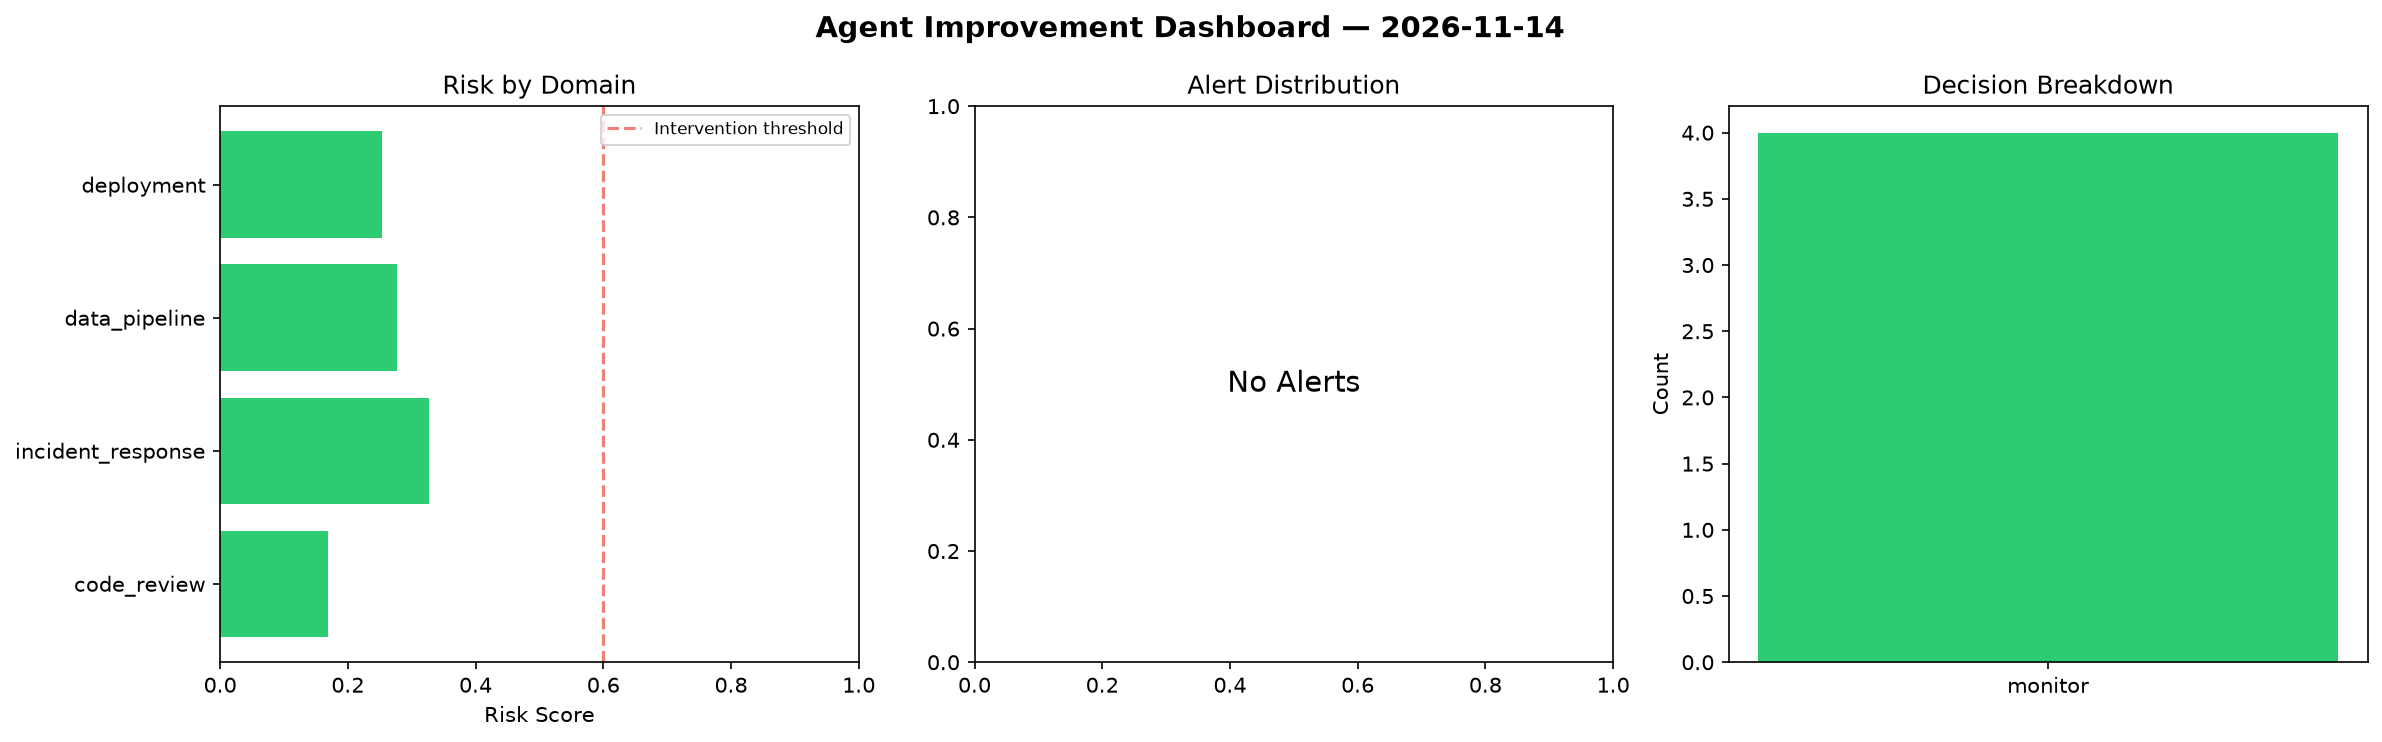
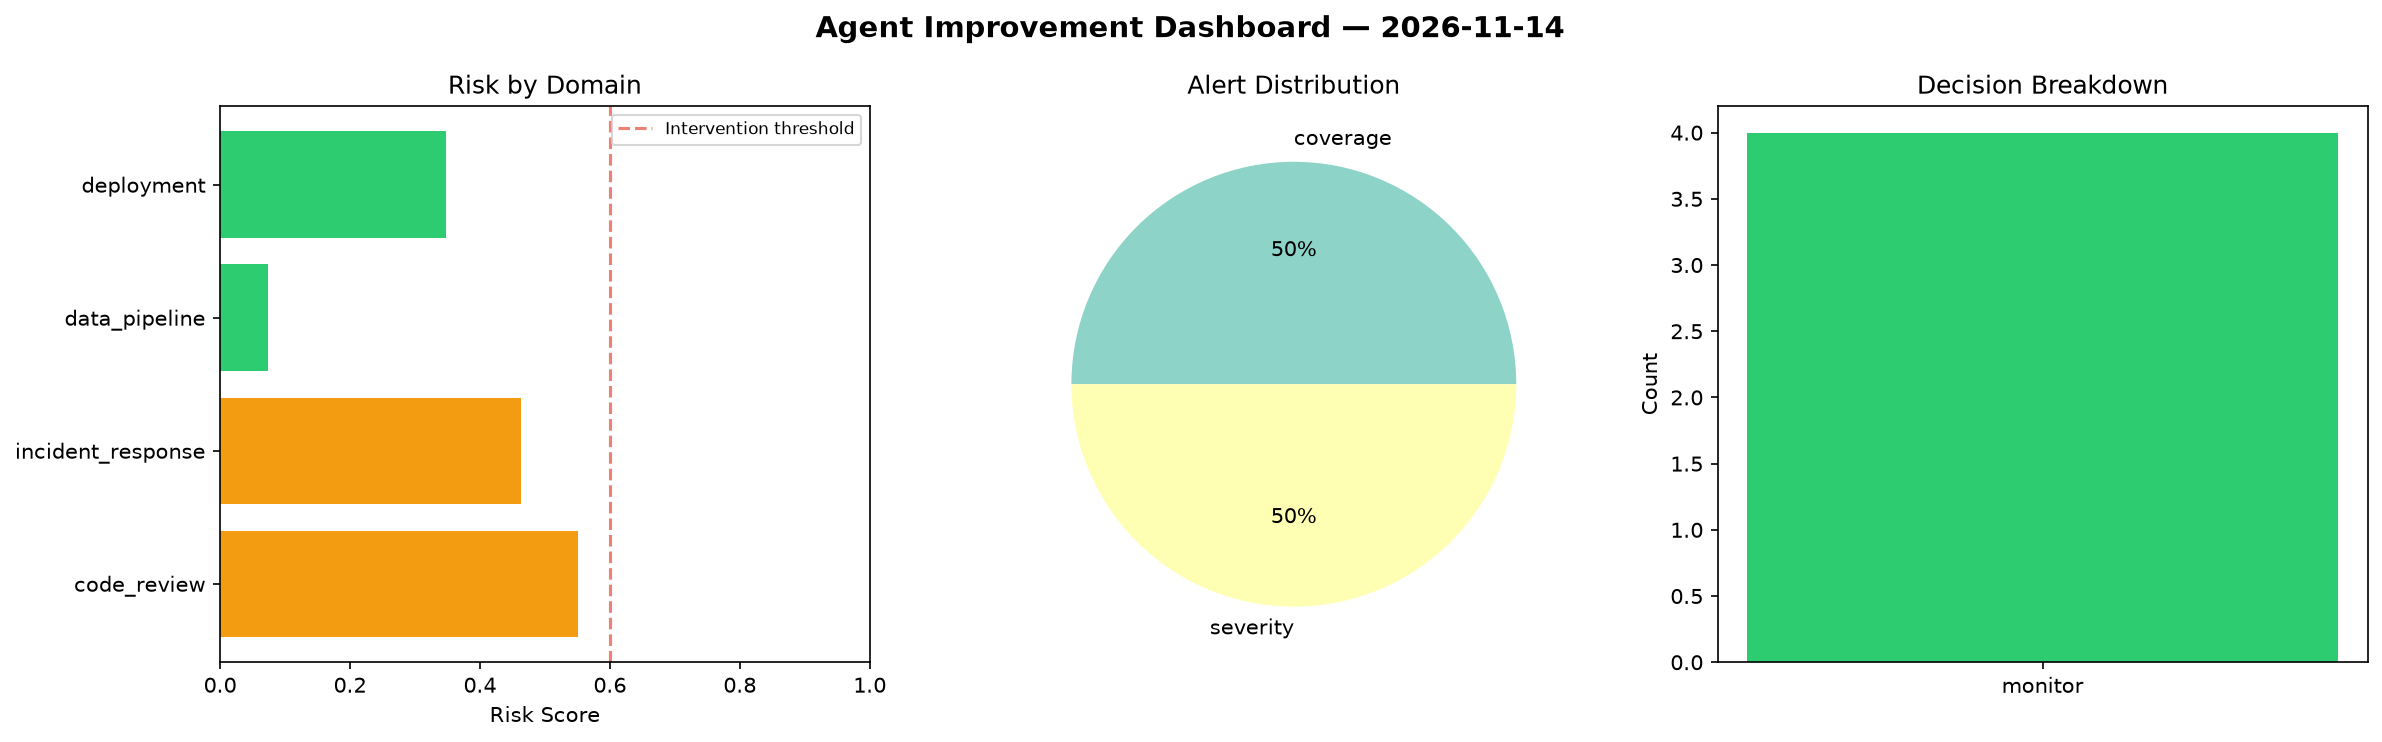
agent-improvement: daily cycle 2026-11-14T08:56

diff --git a/logs/2026-11-14.md b/logs/2026-11-14.md
@@ -1,6 +1,6 @@
 # Agent Improvement Report — 2026-11-14
 
-**Cycle ID:** `b2b55583` | **Avg Risk:** 0.2571 | **Interventions:** 0/4
+**Cycle ID:** `40ca4983` | **Avg Risk:** 0.359 | **Interventions:** 0/4
 
 ![Dashboard](2026-11-14_dashboard.png)
 
@@ -10,18 +10,18 @@
 
 | Domain | Risk Score | Decision | Alerts |
 |--------|-----------|----------|--------|
-| code_review | 0.1693 | monitor | none |
-| incident_response | 0.3275 | monitor | none |
-| data_pipeline | 0.2777 | monitor | none |
-| deployment | 0.2537 | monitor | none |
+| code_review | 0.5515 | monitor | coverage |
+| incident_response | 0.4635 | monitor | severity |
+| data_pipeline | 0.0738 | monitor | none |
+| deployment | 0.3471 | monitor | none |
 
 ## Delta vs Yesterday
 
 | Domain | Today | Yesterday | Change |
 |--------|-------|-----------|--------|
-| code_review | 0.1693 | 0.4015 | 📉 -57.8% |
-| incident_response | 0.3275 | 0.6137 | 📉 -46.6% |
-| data_pipeline | 0.2777 | 0.6932 | 📉 -59.9% |
-| deployment | 0.2537 | 0.4972 | 📉 -49.0% |
+| code_review | 0.5515 | 0.4015 | 📈 37.4% |
+| incident_response | 0.4635 | 0.6137 | 📉 -24.5% |
+| data_pipeline | 0.0738 | 0.6932 | 📉 -89.4% |
+| deployment | 0.3471 | 0.4972 | 📉 -30.2% |
 
-**Refinement:** `{'adjustment': 'tighten_thresholds', 'trend': 'degrading', 'window': 4}`
+**Refinement:** `{'adjustment': 'maintain', 'trend': 'improving', 'window': 4}`
